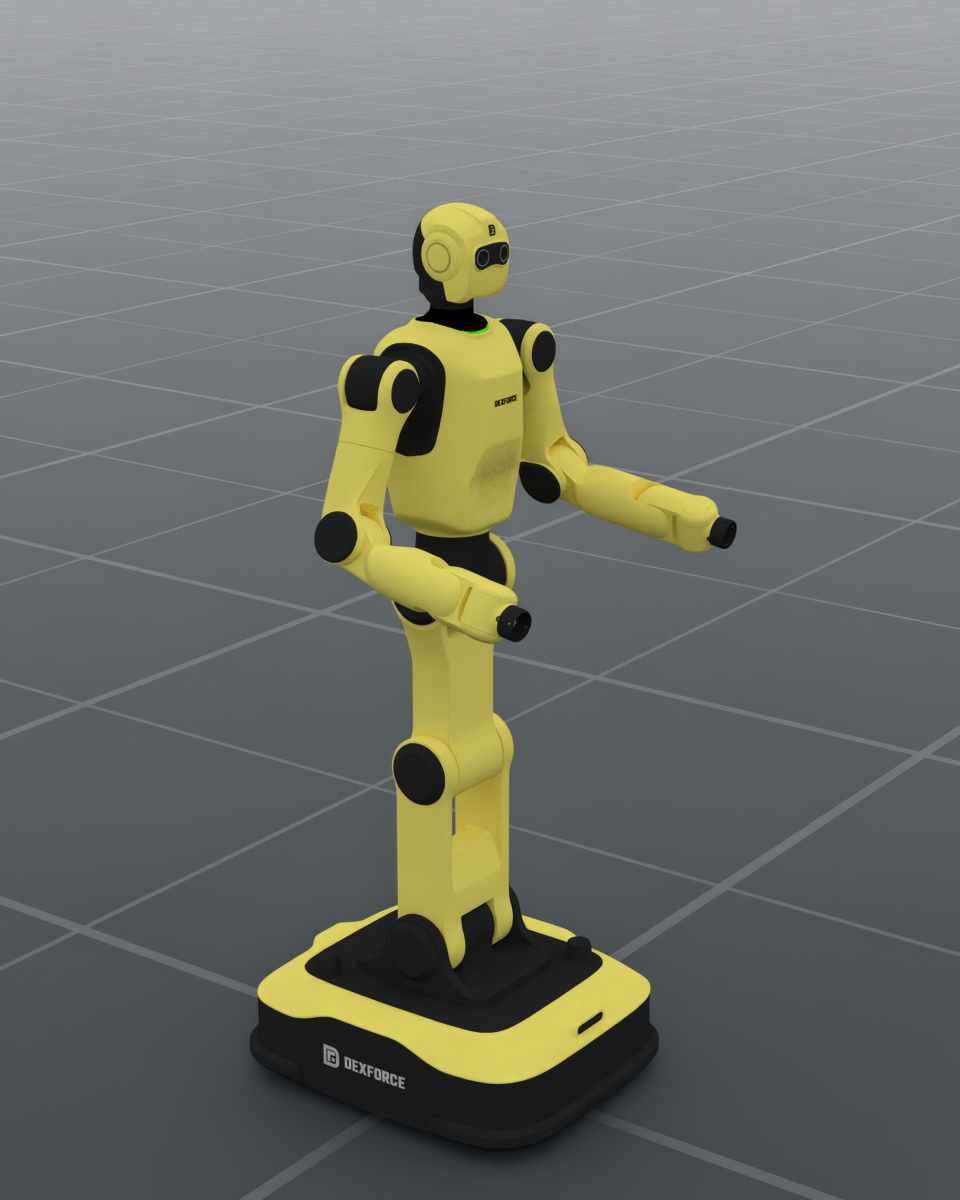
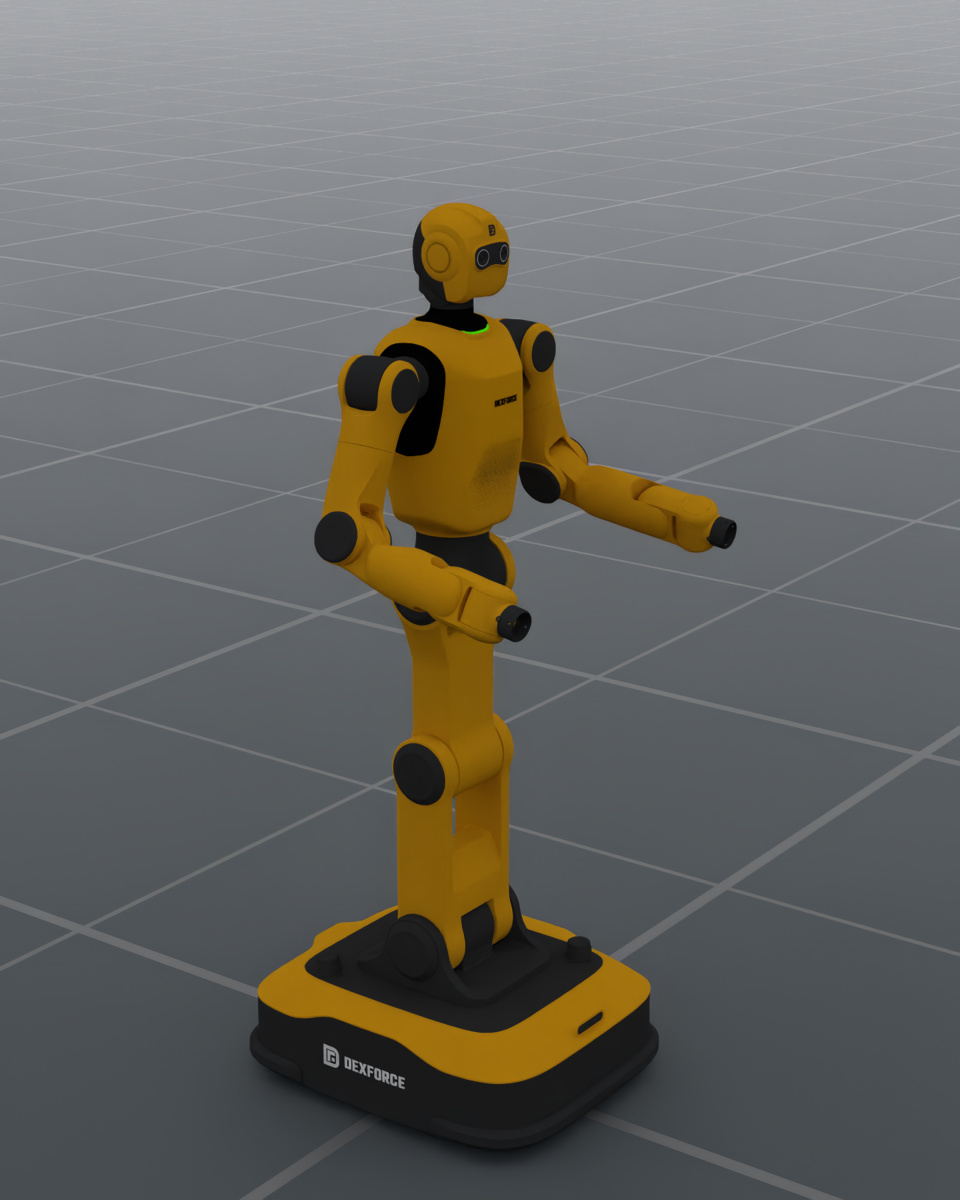
fix(assets): refresh W1 V030 visuals and documentation renders

Changed region(s): [[0.3125, 0.1542, 0.75, 0.8017], [0.25, 0.7708, 0.6875, 0.925], [0.5625, 0.7708, 0.5938, 0.8017]]

diff --git a/embodichain/data/assets/w1_assets.py b/embodichain/data/assets/w1_assets.py
@@ -161,6 +161,9 @@ class DexforceW1V030(EmbodiChainDataset):
     inertials match the corrected full body. Wrist camera and gripper assets
     belong to independently assembled attachments.
 
+    Corrected shell colors use a versioned cache so existing URDF assemblies
+    refresh their copied visual meshes.
+
     Args:
         data_root: Download and extraction cache root. Defaults to the configured
             EmbodiChain asset cache.
@@ -169,10 +172,11 @@ class DexforceW1V030(EmbodiChainDataset):
     def __init__(self, data_root: str | None = None) -> None:
         descriptor = o3d.data.DataDescriptor(
             os.path.join(EMBODICHAIN_DOWNLOAD_PREFIX, w1_assets, "v030", "w1.zip"),
-            "45fd6e516997d85cbac01f3d955acb4f",
+            "74ff7e835160f7309d32ade116172c52",
         )
         path = EMBODICHAIN_DEFAULT_DATA_ROOT if data_root is None else data_root
-        super().__init__(type(self).__name__, descriptor, path)
+        # Assembly signatures track URDF paths rather than mesh contents.
+        super().__init__(f"{type(self).__name__}VisualsV2", descriptor, path)
 
 
 class DexforceW1ChassisV021(EmbodiChainDataset):

diff --git a/tests/data/test_download_prefix.py b/tests/data/test_download_prefix.py
@@ -37,6 +37,7 @@ _COLLECT_URLS = """
 import json
 from embodichain.data import dataset
 from embodichain.data.assets import CobotMagicArm, UnitreeGo2Locomotion, UniversalRobots
+from embodichain.data.assets.w1_assets import DexforceW1V030
 
 urls = {}
 
@@ -48,7 +49,7 @@ def capture(self, prefix, descriptor, path):
     raise Captured  # stop before anything is downloaded
 
 dataset.EmbodiChainDataset.__init__ = capture
-for cls in (CobotMagicArm, UnitreeGo2Locomotion, UniversalRobots):
+for cls in (CobotMagicArm, UnitreeGo2Locomotion, UniversalRobots, DexforceW1V030):
     try:
         cls()
     except Captured:
@@ -117,6 +118,8 @@ def test_assets_download_from_the_configured_prefix(prefix: str) -> None:
         f"{MIRROR}robot_assets/UniversalRobots_v4.zip",
         f"{HF_PREFIX}robot_assets/UniversalRobots_v4.zip",
     ]
+    # W1's visual revision must bypass old assembled meshes at the same Hub URL.
+    assert urls["DexforceW1V030VisualsV2"] == [f"{MIRROR}dexforce_w1/v030/w1.zip"]
 
 
 @pytest.mark.no_sim

diff --git a/agent_context/topics/data-assets/data-assets.md b/agent_context/topics/data-assets/data-assets.md
@@ -58,10 +58,13 @@ when needed. Solver/planner checkpoint download helpers can have separate paths.
 ZIP bundles must include directory entries before nested files for Open3D
 extraction. Validate new bundles through `get_data_path()` with an empty cache.
 
-`UniversalRobots` selects the V4 archive with corrected UR3/UR3e material
-colors. Its versioned `UniversalRobotsV4` cache directory changes source paths
-so URDF assembly also refreshes previously copied mesh materials; public
-`UniversalRobots/...` asset references remain unchanged.
+Visual-only asset revisions need versioned source-cache directories: URDF
+assembly signatures include source URDF paths and contents, not referenced
+mesh contents, so replacing GLBs at an unchanged source path can retain stale
+assembled materials. `UniversalRobots` uses `UniversalRobotsV4` for corrected
+UR3/UR3e colors; `DexforceW1V030` uses `DexforceW1V030VisualsV2` for its corrected
+shell colors. Their public asset selectors remain unchanged; W1 also retains
+its `dexforce_w1/v030/w1.zip` archive URL and existing URDF/collision definitions.
 
 Demo classes live in `assets/demo_assets.py` and are exported through the existing
 asset registry. `TabletopFourBases/scene_export` resolves the four-support rigid

diff --git a/docs/source/resources/robot/dexforce_w1.md b/docs/source/resources/robot/dexforce_w1.md
@@ -15,15 +15,16 @@ are configured separately.
   </figure>
 </div>
 
-Both images use the same camera, bent-elbow display pose and current
-`RenderCfg(renderer="rt")` defaults (OfflineRT), with default scene lighting.
+Both images are captured from the registered robot presets using the same
+camera, bent-elbow display pose and current `RenderCfg(renderer="rt")`
+defaults (OfflineRT), with default scene lighting.
 The display pose is for illustration; it does not change the preset home pose.
 
 :::{dropdown} Image rendering settings
 960 × 1200; 1 sample per pixel; DLSS offscreen reconstruction (quality 2);
 tone mapping off; exposure 1.0; path depths 4–8. The scene uses the default
-ground and environment emission, with no added direct lights. Camera and
-joint settings are recorded in the
+ground and environment emission, with no added direct lights. Camera settings,
+joint positions and the V030 asset revision are recorded in the
 [render manifest](../../_static/robots/dexforcew1_render.json).
 :::
 
